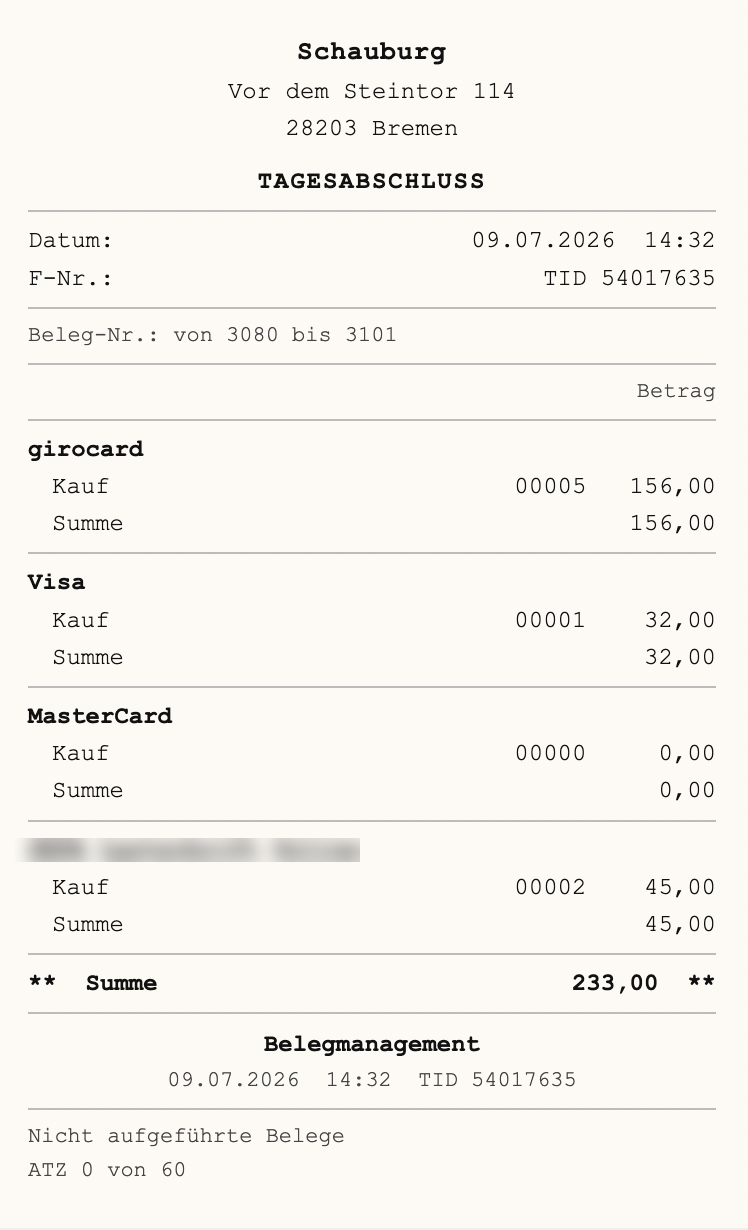
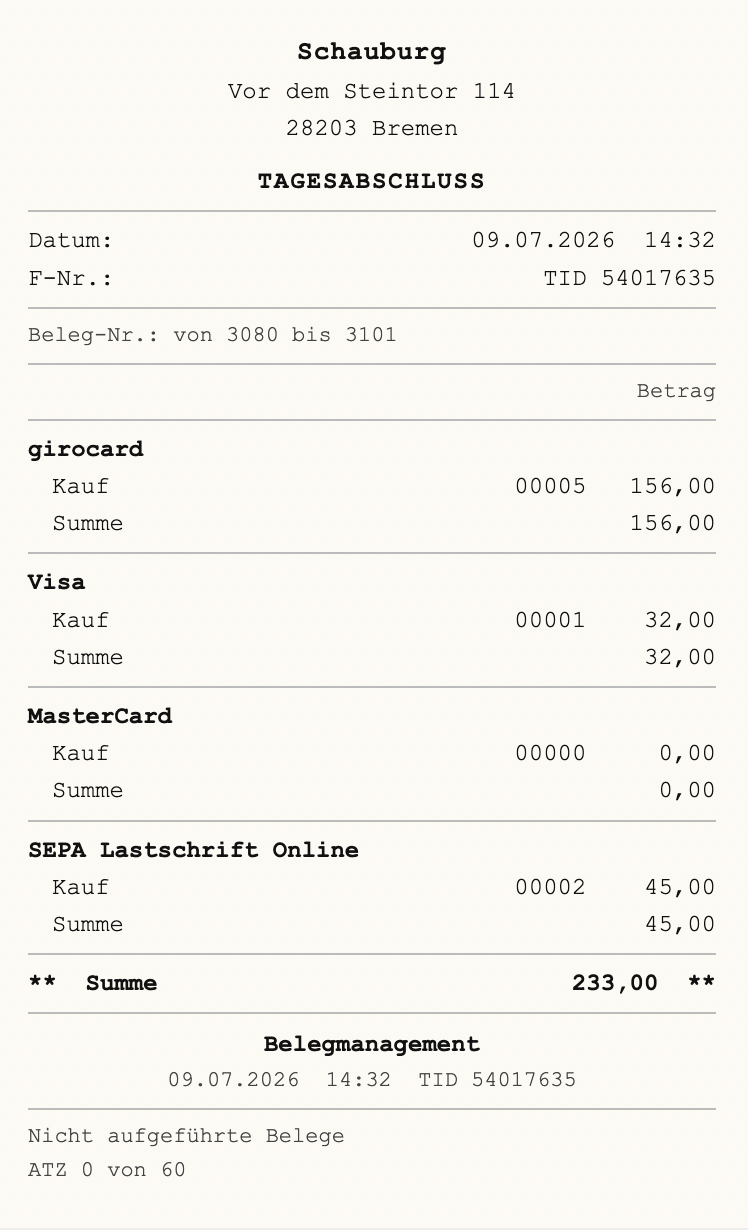
Run 318a2: SEPA-Blur von PNG-Dummy zurückgenommen, stattdessen CSS-Blur im HTML-Dummy (letzter Beleg, 21:57)

Changed region(s): [[0.0307, 0.6797, 0.492, 0.7106]]

diff --git a/.dev/kassenberichte dummies/html/ec_belege_scans.html b/.dev/kassenberichte dummies/html/ec_belege_scans.html
@@ -352,7 +352,7 @@
         <div class="tr-method"><span>Summe</span><span>0,00</span></div>
         <hr class="tr-dash">
 
-        <div class="tr-label">SEPA Lastschrift Online</div>
+        <div class="tr-label" style="filter: blur(3px);">SEPA Lastschrift Online</div>
         <div class="tr-method"><span>Kauf</span><span>00001&nbsp;&nbsp;&nbsp;&nbsp;30,00</span></div>
         <div class="tr-method"><span>Summe</span><span>30,00</span></div>
         <hr class="tr-dash">
